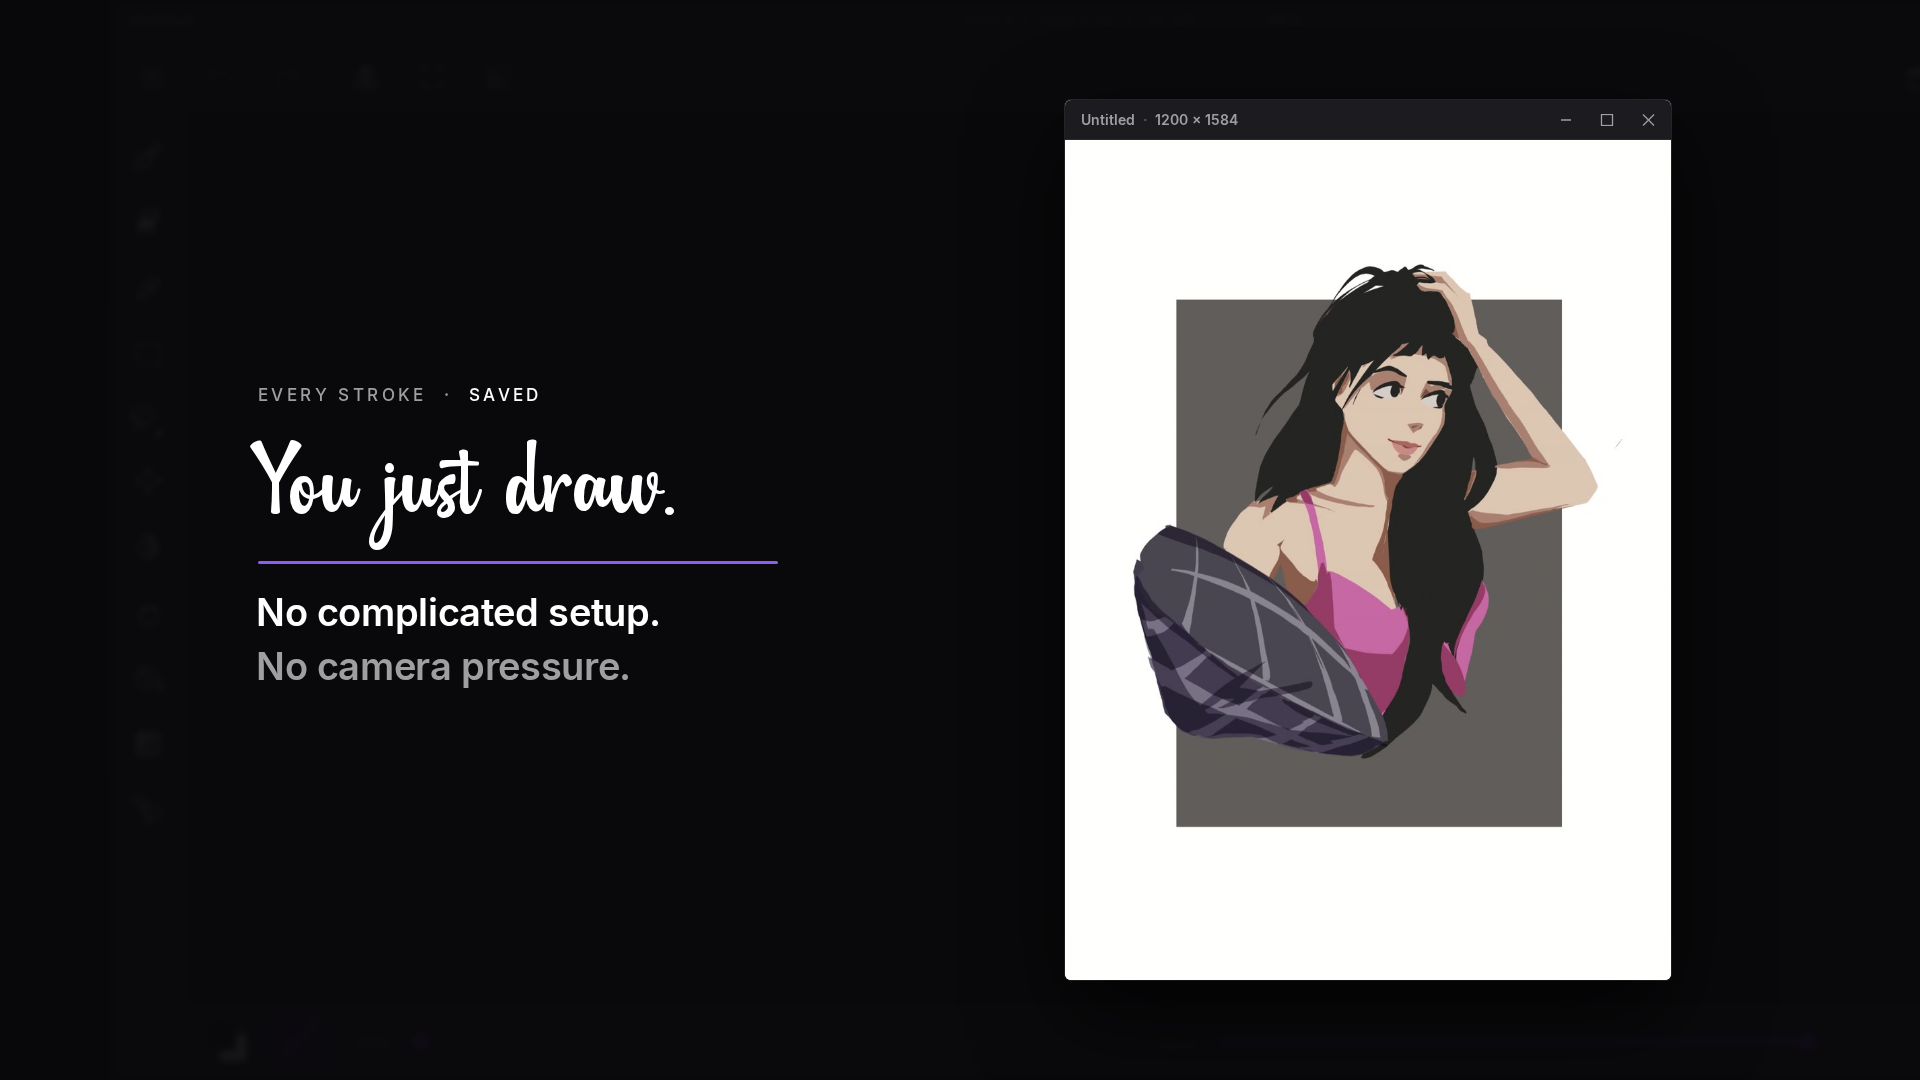
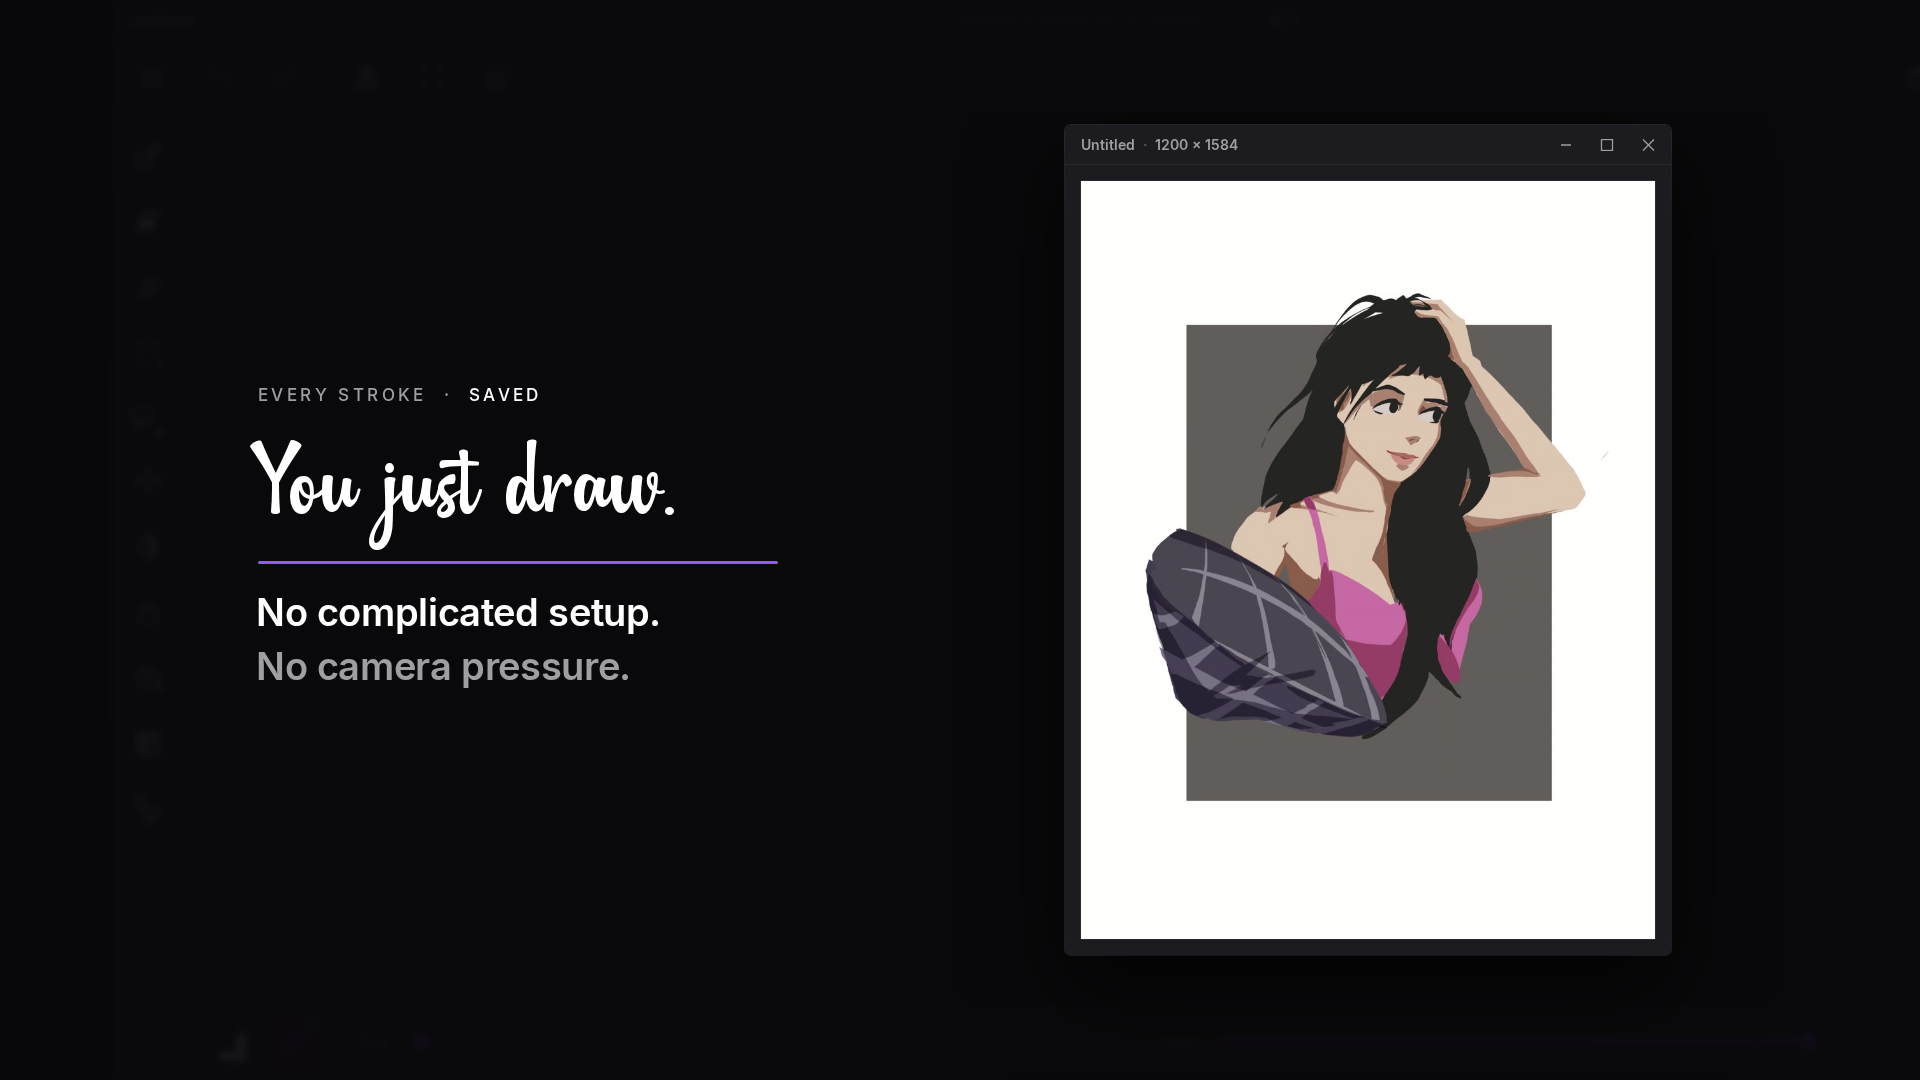
Storyboard: pad the drawing inside its window
Claude-Session: https://claude.ai/code/session_01N6SAp883XGMwBKYGBCyKw5

Changed region(s): [[0.5312, 0.0917, 0.875, 0.9167]]

diff --git a/docs/storyboard/storyboard.html b/docs/storyboard/storyboard.html
@@ -50,9 +50,9 @@ html,body { margin:0; background:var(--bg); }
     <img class="L" src="../../ui/studio/nopage.png" style="width:1920px;height:1080px;left:-960px;top:-540px;box-shadow:none;filter:blur(3px)">
     <div class="L" style="background:rgba(8,7,10,.95);left:-1400px;top:-900px;width:2800px;height:1800px;box-shadow:none"></div>
   </div></div>
-  <div class="win" style="left:1065px;top:100px;width:606px;height:880px;background:#fff">
+  <div class="win" style="left:1065px;top:125px;width:606px;height:830px;background:#1c1b1f">
     <div class="tb"><svg class="ctl" width="96" height="12" viewBox="0 0 96 12" fill="none" stroke="#9F9EA1" stroke-width="1.3"><path d="M2 6h10"/><rect x="42.5" y=".5" width="11" height="11"/><path d="M84 .5l11 11M95 .5l-11 11"/></svg><span>Untitled&nbsp;&nbsp;<span style="color:var(--faint)">·</span>&nbsp;&nbsp;1200 × 1584</span></div>
-    <img class="abs" src="../../build/frames/canvas/70.jpg" style="left:0;top:40px;width:606px;height:840px">
+    <img class="abs" src="../../build/frames/canvas/70.jpg" style="left:16px;top:56px;width:574px;height:758px;box-shadow:0 0 0 1px #2A292D">
   </div>
   
   <div class="abs eyebrow" style="left:258px;top:385px">Every stroke&nbsp;&nbsp;·&nbsp;&nbsp;<b>saved</b></div>

diff --git a/docs/shotlist-studio.md b/docs/shotlist-studio.md
@@ -11,7 +11,7 @@ Ends on the lockup (no loop back, no infinite card floor).
 | 1b | 1.5–3 | 0.7–1.4 | **Colours.** The Colors panel on the left, the label on the right (mirrored layout). "02/03" → *Colours* → "HSV · sliders · swatches". | Hard cut on the beat. The picker dot slides across the field. | Click |
 | 1c | 3–4.5 | 1.4–2.1 | **Layers.** The Layers panel on the right, the label on the left. "03/03" → *Layers* → "blend modes · opacity · lock". | Cut. The opacity slider fills. | Click |
 | 1d | 4.5–6 | 2.1–2.8 | **Studio reveal.** The clean studio stands near-upright, turned slightly, with a blank white page. | The panel shrinks into its button on the right rail as the camera pulls back to the full studio, then pushes toward the page. | Swish |
-| 2 | 6–12 | 2.8–5.6 | **Focus on the canvas**, laid out like the skin showcase. The drawing plays inside a window, with no badge. The window has a flat title bar: the title "Untitled · 1200 × 1584" on the left, line-icon minimise, maximise and close on the right, and 6 px corners (not a Mac window). The post windows in shot 6 use the same chrome. Text block and window are balanced on the frame with equal ~250 px side margins. No recording language. Left block: eyebrow "Every stroke · saved" → *You just draw.* (script) → accent underline → below the line, "No complicated setup." (white) and "No camera pressure." (grey). The studio behind is darkened and blurred. | Push-in. The script line rolls up on 6.5 and the underline draws. The two lines below roll up on 8 and 9.5. | Whoosh in, tick per line, groove starts |
+| 2 | 6–12 | 2.8–5.6 | **Focus on the canvas**, laid out like the skin showcase. The drawing plays inside a window, with no badge. The window has a flat title bar: the title "Untitled · 1200 × 1584" on the left, line-icon minimise, maximise and close on the right, and 6 px corners (not a Mac window). The drawing sits inset with 16 px of window-coloured padding, so it reads as a window rather than a card. The post windows in shot 6 use the same chrome. Text block and window are balanced on the frame with equal ~250 px side margins. No recording language. Left block: eyebrow "Every stroke · saved" → *You just draw.* (script) → accent underline → below the line, "No complicated setup." (white) and "No camera pressure." (grey). The studio behind is darkened and blurred. | Push-in. The script line rolls up on 6.5 and the underline draws. The two lines below roll up on 8 and 9.5. | Whoosh in, tick per line, groove starts |
 | 3 | 12–14 | 5.6–6.6 | **Replay.** Copy lifts out. Camera pans to the top-right toolbar. Cursor glides to the clapper (Replay) button and clicks: purple pressed state. | Camera pan, cursor travel, button press dip | Swish, click on 13, drums drop for that beat |
 | 4 | 14–21.5 | 6.6–10.1 | **Skin showcase** (the switcher you liked). The page lifts off the studio and morphs into the replay box while the studio falls away. Left: Look 01/05, frame name, colour dots and ring. Right: skin and colour tokens. | Same as the previous film: Pink, Yellow, Orange, Manga, Fantasy, switching every 1.5 beats | Boom on 14, click per switch |
 | 5 | 21.5–23 | 10.1–10.8 | **Export.** HUD exits. The real "Export video" button (cropped from the app) pops in under the box. Cursor clicks it. | Button scales in with a tiny overshoot, then a press dip | Tick, click on 22.5 |
